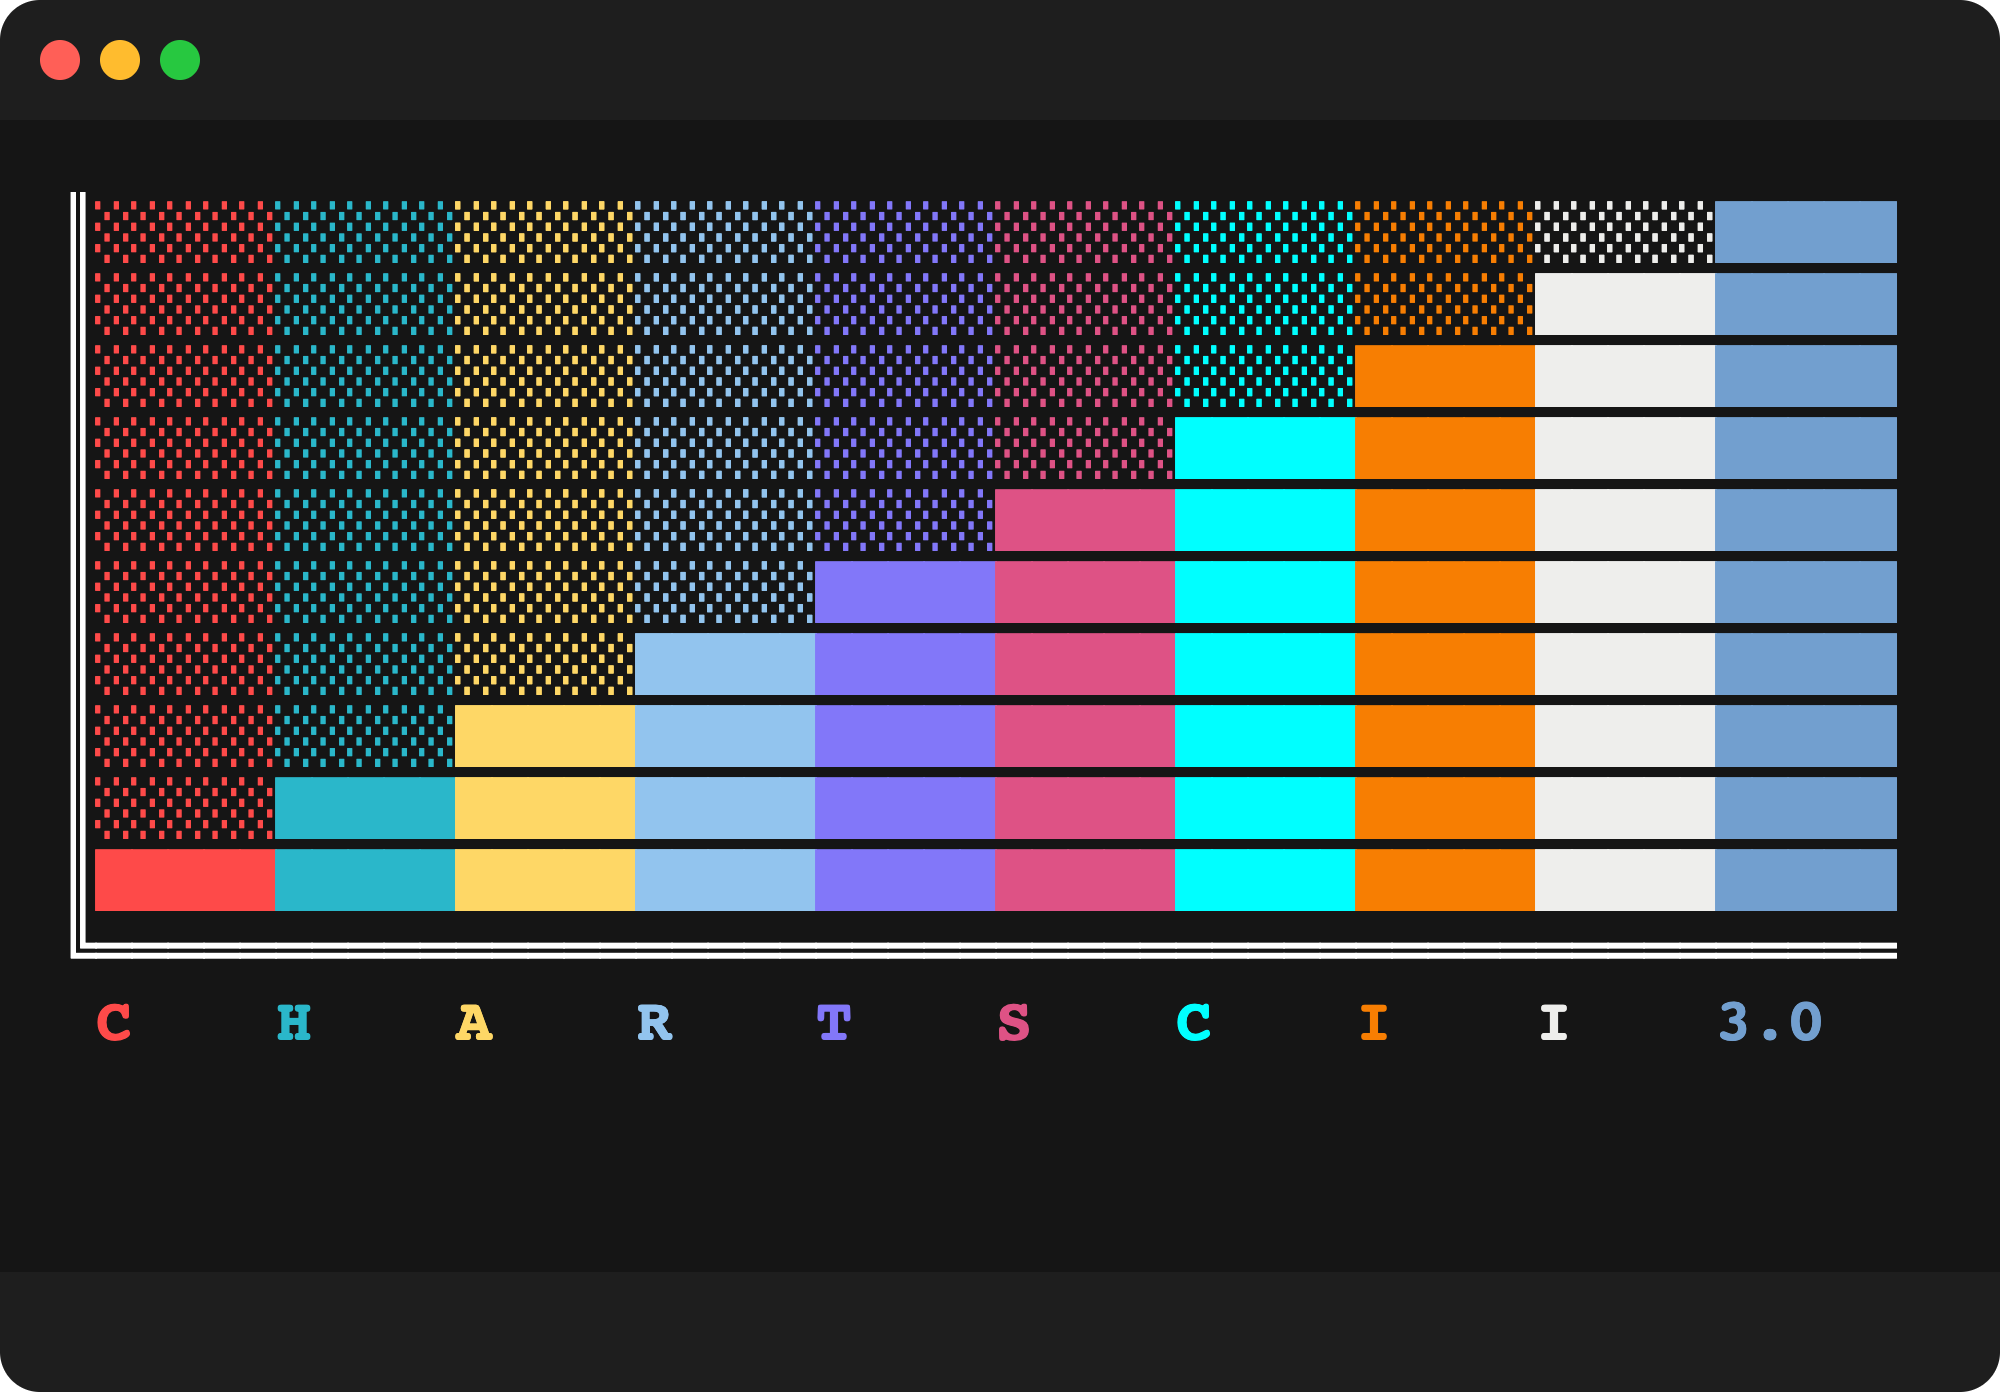
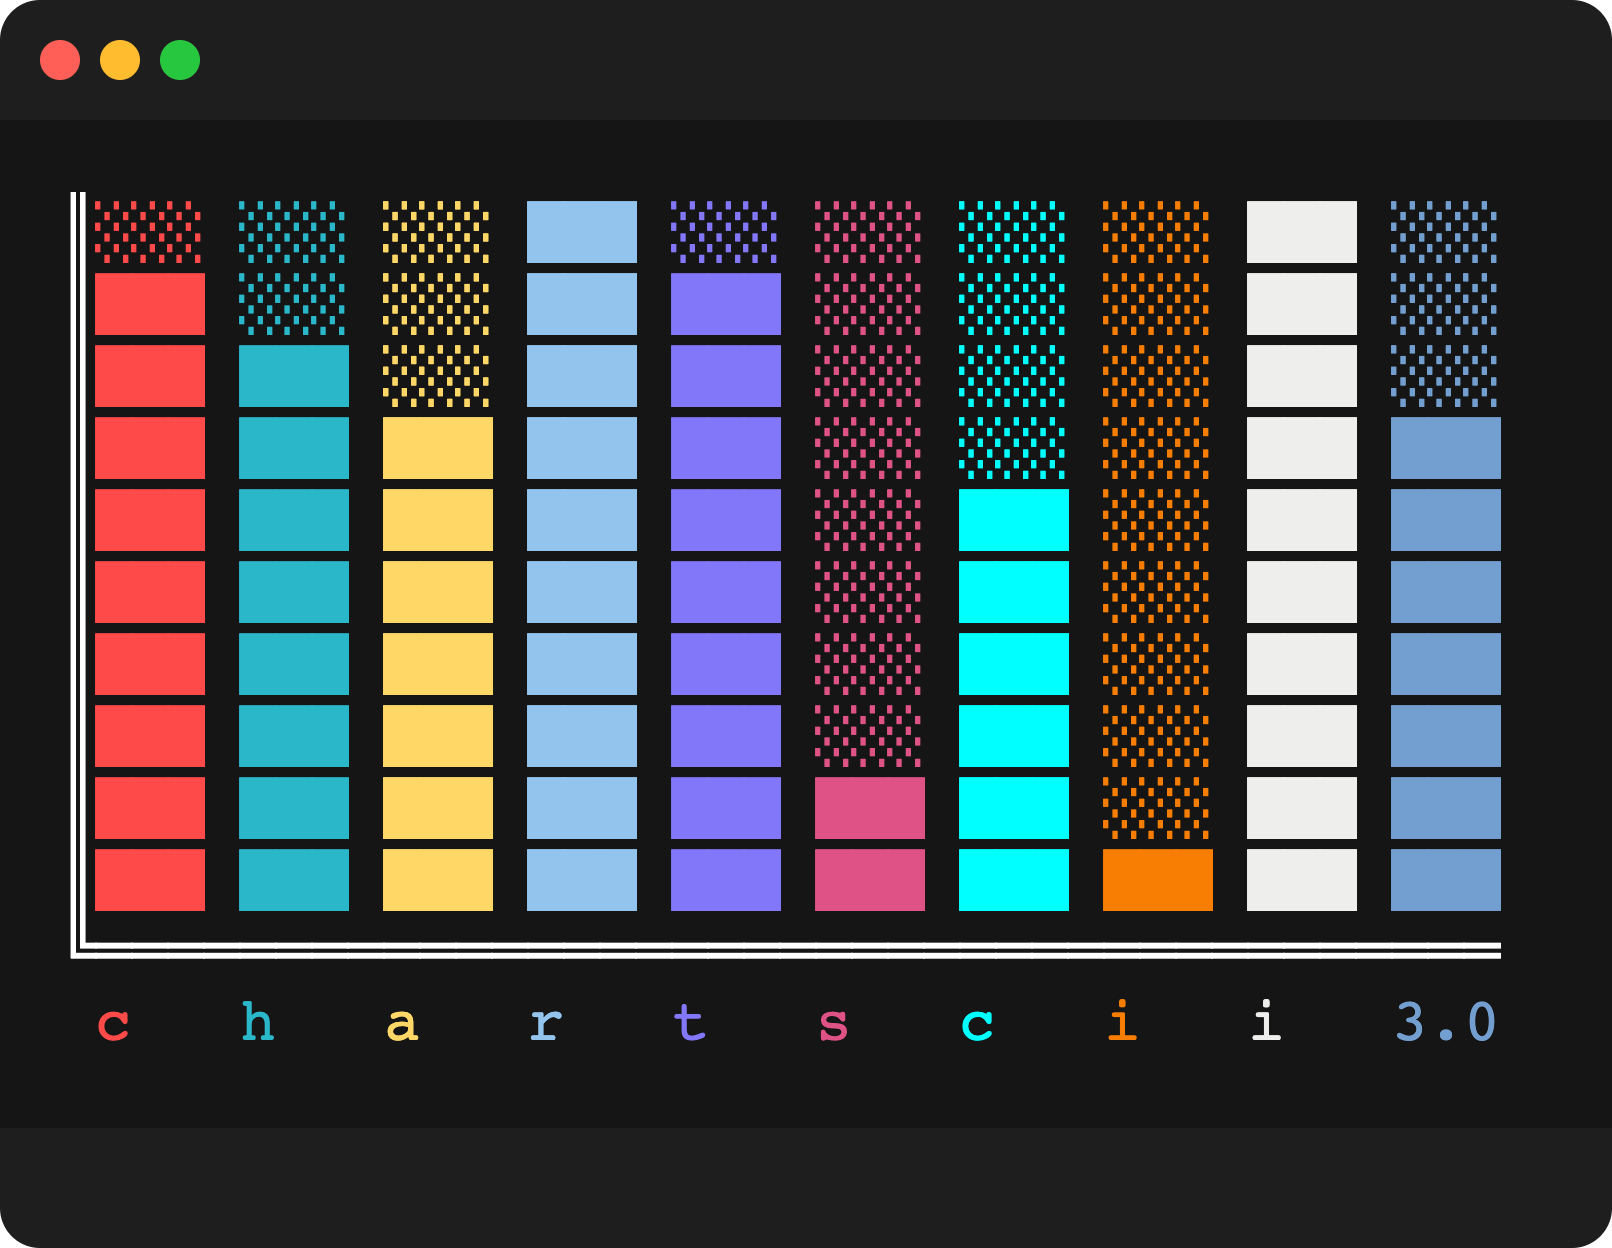
docs: more examples

diff --git a/branding/shellfie.js b/branding/shellfie.js
@@ -17,48 +17,56 @@ const colors = [
 ];
 
 // generate random chart data
-// const data = [];
+const data = [];
 const labels = ['c', 'h', 'a', 'r', 't', 's', 'c', 'i', 'i', '3.0'];
-// for (let i = 0; i < 3; i++) {
-//     const color = colors[i];
-//     const value = Math.floor(Math.random() * 20);
-//     data.push({ value, color, label: `loading` });
-// }
+for (let i = 0; i < labels.length; i++) {
+    const color = colors[i];
+    const value = Math.floor(Math.random() * 20);
+    data.push({ value, color, label: `%${labels[i]}%` });
+}
 
-const data = [
-  { label: "label", value: 1, color: "pink" },
-  { label: "label", value: 2, color: "purple" },
-  { label: "label", value: 1.5, color: "marine" },
-  { label: "label", value: 3, color: "orange" },
-  { label: "label", value: 2.5, color: "green" }
-];
+// const data = [
+//   { label: "label", value: 1, color: "pink" },
+//   { label: "label", value: 2, color: "purple" },
+//   { label: "label", value: 1.5, color: "marine" },
+//   { label: "label", value: 3, color: "orange" },
+//   { label: "label", value: 2.5, color: "green" }
+// ];
 const chart = new Chartscii(data, {
     // height: 10
     // width: 50
     // width: 50,
     // // padding: 2,
-    // barSize: 1,
-    padding: 1,
     barSize: 1,
-    valueLabels: true,
-    colorLabels: true,
-    // naked: true,
+    // padding: 2,
     // valueLabels: true,
+    colorLabels: true,
+    naked: true,
+    valueLabels: true,
     // fill: '░',
     // colorLabels: true,
-    // theme: 'pastel',
+    theme: 'nature',
     // orientation: 'vertical'
 });
 
 
 (async () => {
     try {
+        // const data = chart.create();
+        // console.log(data);
+        // await shellfie(data, {
+        //     name: './chartscii_chartpoint',
+        //     viewport: {
+        //         width: 1024,
+        //         height: 300
+        //     },
+        // });
         const data = chart.create();
         console.log(data);
         await shellfie(data, {
-            name: './chartscii_chartpoint',
+            name: './chartscii_test',
             viewport: {
-                width: 1024,
+                width: 1000,
                 height: 300
             },
         });
